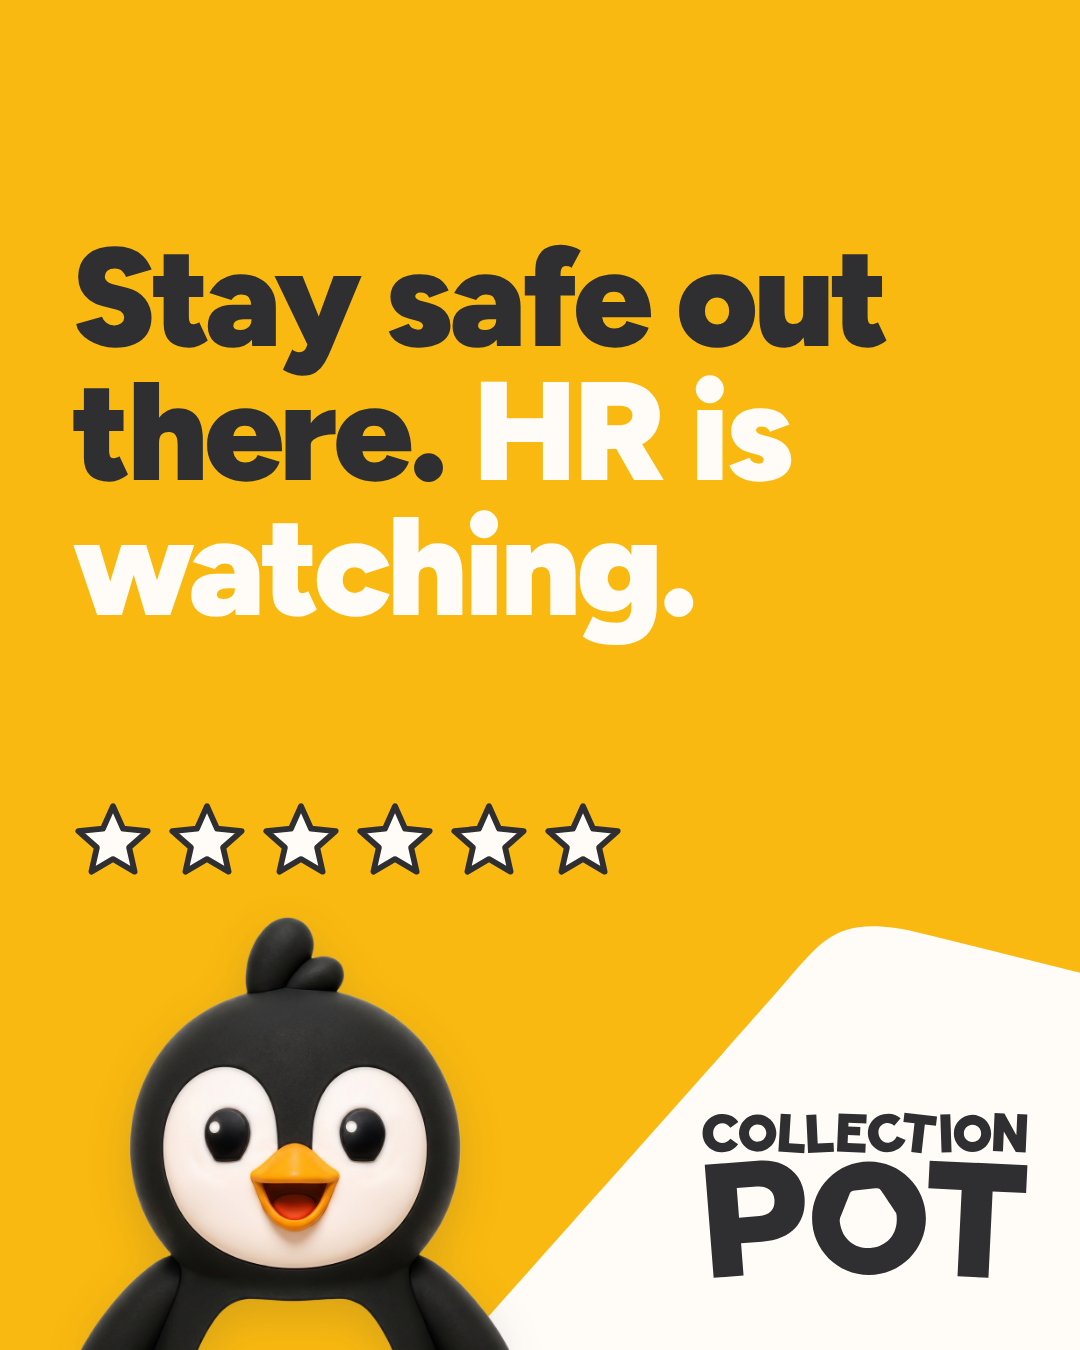
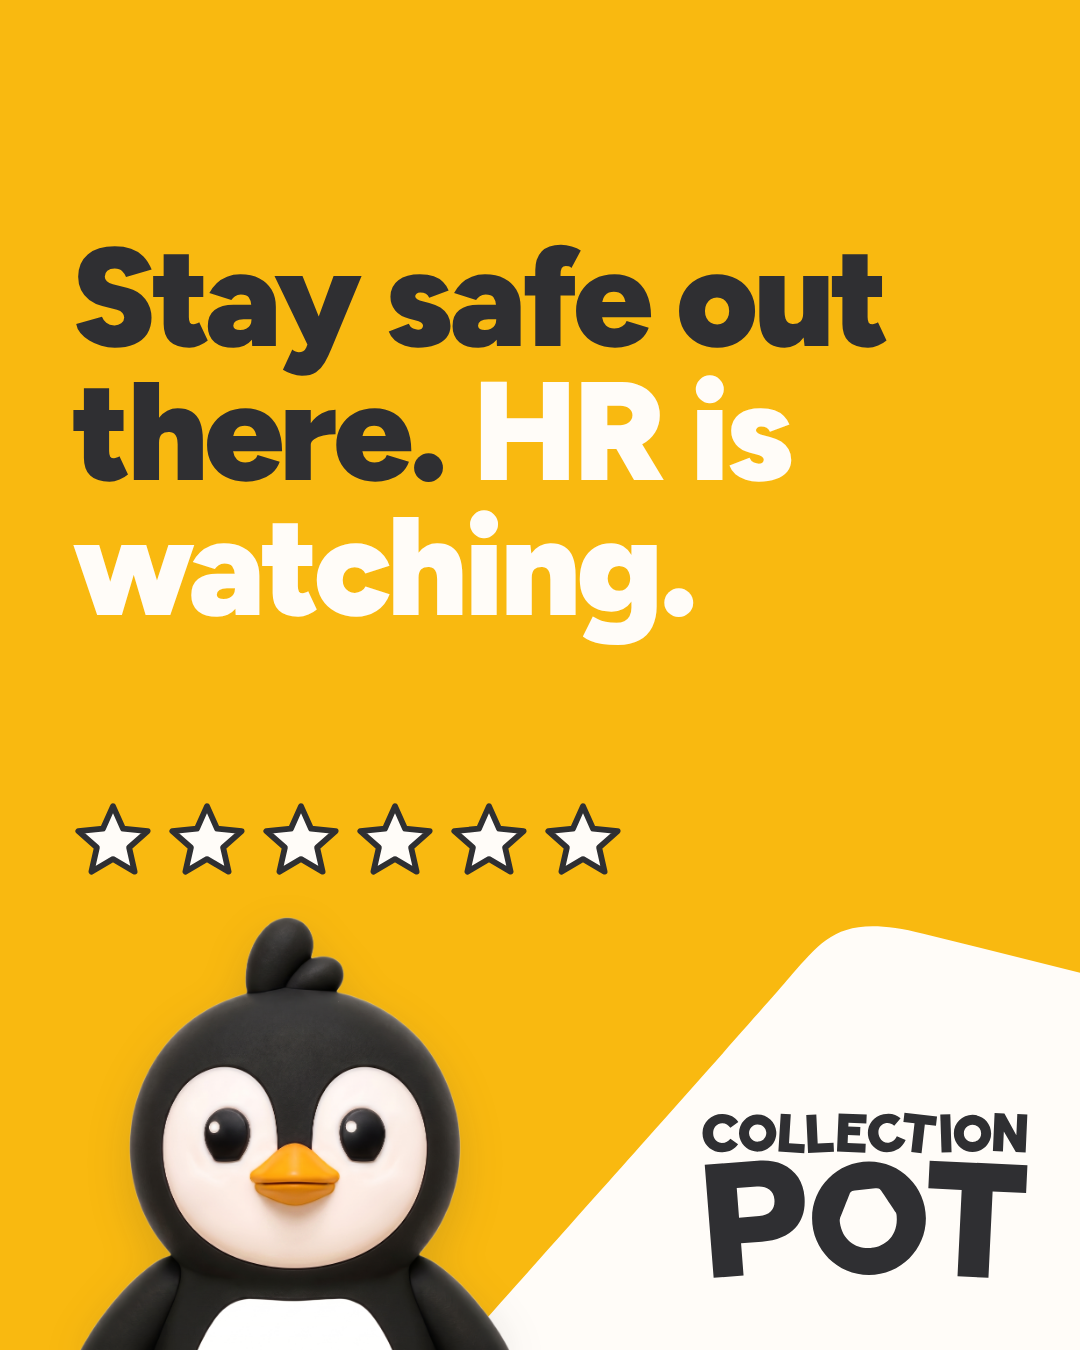
GTA 6 carousel: replace sign-off Chip (source headshot had a transparent belly showing the gold) with official neutral headshot
Claude-Session: https://claude.ai/code/session_011HgaDvzB2TFRzZhuJwdZ16

Changed region(s): [[0.1833, 0.9644, 0.3667, 1.0], [0.2139, 0.8711, 0.3056, 0.9333]]

diff --git a/collection-pot/gta6-wanted-level/carousel.html b/collection-pot/gta6-wanted-level/carousel.html
@@ -77,7 +77,7 @@ svg.pot{position:absolute;overflow:visible}
   <div class="pots"></div>
   <div class="a h" style="left:72px;top:230px;width:920px;font-size:140px;line-height:.96">Stay safe out there. <span class="w">HR is watching.</span></div>
   <div class="a stars" style="left:72px;top:800px" data-n="6"></div>
-  <img class="chip" src="chip/c6-headshot.png" style="left:80px;top:917px;width:430px" alt="Chip">
+  <img class="chip" src="chip/c6-headshot-neutral.png" style="left:80px;top:917px;width:430px" alt="Chip">
   <img class="logo" src="brand/LogoStacked.svg" style="left:700px;top:1110px;width:330px" alt="">
 </section>
 

diff --git a/collection-pot/gta6-wanted-level/README.md b/collection-pot/gta6-wanted-level/README.md
@@ -17,12 +17,14 @@ No free-form blobs or waves. Previous version (Pots in a continuous strip) kept 
 | 3 | 02. Buying a mouse jiggler so your Teams status stays green **while you're in Vice City.** | ★★★★★☆ | `01-beanbag-gaming` |
 | 4 | 03. Camera off for Friday's all-hands: **"Sorry, my Wi-Fi's really bad today."** | ★★☆☆☆☆ | `02-shrug` |
 | 5 | 04. Coming down with the Thursday–Friday flu. **The whole team. Same day.** | ★★★★★★ | `04-confused-head-scratch` |
-| 6 | Stay safe out there. **HR is watching.** | ★★★★★★ | `03-headshot-front` |
+| 6 | Stay safe out there. **HR is watching.** | ★★★★★★ | `22-headshot-neutral` |
 
 ## Chip
 Chip is used **exactly as supplied** by the Collection Pot team (Google Drive "Examples" folder → `collection-pot/chip-library/`).
 The files in `chip/` are those renders trimmed to their edges and nothing else. Never redraw, regenerate or edit Chip;
 if a pose is missing, ask the team for one.
+Check a Chip on the gold before using it: `03-headshot-front` and `21-headshot-worried` have a transparent hole where the
+belly should be, so the background shows through (gold looks like a yellow belly). Don't use those two on coloured backgrounds.
 
 ## Caption
 GTA 6 dropped and suddenly everyone's Wi-Fi is "really bad" 👀
